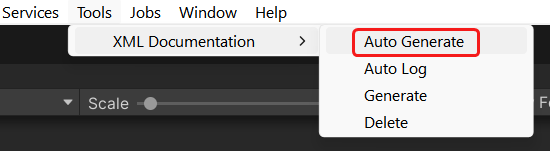
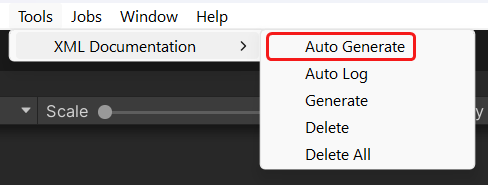
Version 1.0.6

Changed region(s): [[0.0, 0.1589, 1.0, 0.9272], [0.0, 0.0265, 0.5225, 0.1325], [0.6148, 0.7682, 0.7684, 0.8742]]

diff --git a/README.md b/README.md
@@ -93,7 +93,7 @@ Automatic generation can be achieved by enabling the menu option `Tools > XML Do
 > Any XML file locates at `Library/XmlDocumentationGenerated` will be copied to
 > `Library/ScriptAssemblies` even if `Auto Generate` is disabled.
 
-### Delete XML Documentation
+### Delete `csc.rsp` files
 
 Use the menu `Tools > XML Documentation > Delete`.
 
@@ -102,7 +102,15 @@ Use the menu `Tools > XML Documentation > Delete`.
 This will delete all generated files within the `Library/PackageCache` directory
 and revert the original `csc.rsp` files if any were modified by this tool.
 
-Finally, it will also delete the `Library/XmlDocumentationGenerated` directory.
+However, the `Library/XmlDocumentationGenerated` directory will be kept intact.
+
+### Delete everything
+
+Use the menu `Tools > XML Documentation > Delete All`.
+
+![generate xml documentation menu](imgs/tools-delete-all.png)
+
+It works the same as `Delete` but also deletes the `Library/XmlDocumentationGenerated` directory.
 
 ## Results
 
